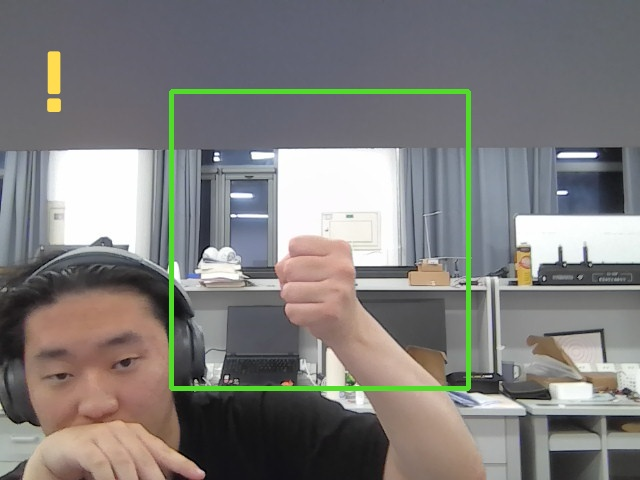
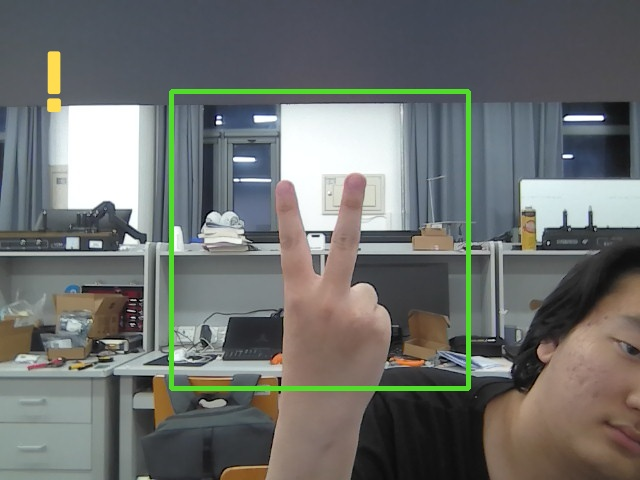
注释

diff --git a/其他大作业/软件实践/tf_rps_gesture_classifier.py b/其他大作业/软件实践/tf_rps_gesture_classifier.py
@@ -257,27 +257,23 @@ def hand_mask(roi, cv2):
     # 使用 YCrCb 肤色阈值提取手部候选区域，目的是减少背景对模型的干扰。
     # 对图像做高斯模糊，减少噪声。
     blurred = cv2.GaussianBlur(roi, (5, 5), 0)
-    # 转换图像颜色空间。
+    # 转换图像颜色空间。肤色在 YCrCb 里通常更容易分离
     ycrcb = cv2.cvtColor(blurred, cv2.COLOR_BGR2YCrCb)
-    # 按阈值生成二值掩码。
+    # 保留颜色值落在指定范围内的像素。
     ycrcb_mask = cv2.inRange(
-        # 继续填写上一行开始的多行参数或数据结构。
         ycrcb,
-        # 同时计算并保存 `np.array([35, 132, 78], dtype` 这些值。
         np.array([35, 132, 78], dtype=np.uint8),
-        # 同时计算并保存 `np.array([245, 180, 135], dtype` 这些值。
         np.array([245, 180, 135], dtype=np.uint8),
-    # 结束上面的多行结构。
     )
-    # 计算并保存 `kernel`，供后续逻辑使用。
+    #创建形态学操作用的卷积核
     kernel = np.ones((5, 5), np.uint8)
-    # 用形态学操作清理掩码噪声。
+    #做开运算，用于去掉小的白色噪点
     mask = cv2.morphologyEx(ycrcb_mask, cv2.MORPH_OPEN, kernel, iterations=1)
-    # 用形态学操作清理掩码噪声。
+    #做闭运算，填补白色区域里的小黑洞
     mask = cv2.morphologyEx(mask, cv2.MORPH_CLOSE, kernel, iterations=2)
-    # 对掩码做中值滤波，进一步平滑边缘。
+    #中值滤波
     mask = cv2.medianBlur(mask, 5)
-    # 返回 `mask`，把结果交给调用者。
+
     return mask
 
 
@@ -566,21 +562,22 @@ def split_image_paths(data_dir: Path, validation_split: float, seed: int):
     for label, name in enumerate(CLASSES):
         # 计算并保存 `files`，供后续逻辑使用。
         files = image_files(data_dir / name)
-        # 执行“把图片路径按训练集和验证集拆分”中的这一行操作。
+        # 把当前类别下的图片顺序随机打乱
         rng.shuffle(files)
         # 计算并保存 `val_count`，供后续逻辑使用。
         val_count = max(1, int(round(len(files) * validation_split)))
-        # 计算并保存 `val_files`，供后续逻辑使用。
+        # 把打乱后的图片列表切开：
+        #前 val_count 张作为验证集
+        #剩下的作为训练集
         val_files = files[:val_count]
-        # 计算并保存 `train_files`，供后续逻辑使用。
         train_files = files[val_count:]
-        # 执行“把图片路径按训练集和验证集拆分”中的这一行操作。
+        #把训练图片路径加入 train_paths，并为这些图片加入对应的数字标签。
         train_paths.extend(str(path) for path in train_files)
-        # 执行“把图片路径按训练集和验证集拆分”中的这一行操作。
+        
         train_labels.extend([label] * len(train_files))
-        # 执行“把图片路径按训练集和验证集拆分”中的这一行操作。
+        
         val_paths.extend(str(path) for path in val_files)
-        # 执行“把图片路径按训练集和验证集拆分”中的这一行操作。
+        
         val_labels.extend([label] * len(val_files))
     # 返回 `train_paths, train_labels, val_paths, val_labels`，把结果交给调用者。
     return train_paths, train_labels, val_paths, val_labels
@@ -724,76 +721,70 @@ def build_model(image_size: int, learning_rate: float):
 
 # 定义 plot_history 函数：保存训练过程中的准确率和损失曲线。
 def plot_history(history, out_path: Path):
-    # 保存训练曲线，答辩时可以展示准确率和损失如何变化。
     # 使用 matplotlib 绘制或保存训练图表。
+    #创建一张大小为 8 x 4 的图
     plt.figure(figsize=(8, 4))
-    # 使用 matplotlib 绘制或保存训练图表。
+    # 把整张图分成 1 行 2 列，当前操作第 1 个子图。
     plt.subplot(1, 2, 1)
-    # 使用 matplotlib 绘制或保存训练图表。
+    # 训练集准确率曲线
     plt.plot(history.history["accuracy"], label="train")
-    # 使用 matplotlib 绘制或保存训练图表。
+    # 验证集准确率曲线
     plt.plot(history.history["val_accuracy"], label="val")
-    # 使用 matplotlib 绘制或保存训练图表。
+    # 标题
     plt.title("Accuracy")
-    # 使用 matplotlib 绘制或保存训练图表。
+    # 横轴
     plt.xlabel("Epoch")
-    # 使用 matplotlib 绘制或保存训练图表。
+    # 图例
     plt.legend()
-    # 使用 matplotlib 绘制或保存训练图表。
+    # 2图
     plt.subplot(1, 2, 2)
-    # 使用 matplotlib 绘制或保存训练图表。
+    # 训练集损失曲线
     plt.plot(history.history["loss"], label="train")
-    # 使用 matplotlib 绘制或保存训练图表。
+    #验证集损失曲线
     plt.plot(history.history["val_loss"], label="val")
-    # 使用 matplotlib 绘制或保存训练图表。
     plt.title("Loss")
-    # 使用 matplotlib 绘制或保存训练图表。
     plt.xlabel("Epoch")
-    # 使用 matplotlib 绘制或保存训练图表。
     plt.legend()
-    # 使用 matplotlib 绘制或保存训练图表。
+    # 自动调整子图间距，避免标题、坐标轴、图例重叠
     plt.tight_layout()
-    # 使用 matplotlib 绘制或保存训练图表。
+    # 把图保存到 out_path，dpi=160 表示图片清晰度
     plt.savefig(out_path, dpi=160)
-    # 使用 matplotlib 绘制或保存训练图表。
+    # 关闭图像
     plt.close()
 
 
 # 定义 save_keras_model 函数：保存 Keras 模型，同时兼容不同版本接口。
 def save_keras_model(model, target_path: Path):
     # 先保存到临时目录再复制到目标路径，减少 Windows 中文路径导致的保存问题。
-    # 计算并保存 `target_path`，供后续逻辑使用。
+    #确保 target_path 是 Path 类型
     target_path = Path(target_path)
     # 创建目录；如果已经存在就直接复用。
     target_path.parent.mkdir(parents=True, exist_ok=True)
-    # 进入上下文管理代码块，结束时会自动清理资源。
+    #创建一个临时目录。with 结束后，这个临时目录会自动删除，解决中文不友好
     with tempfile.TemporaryDirectory(prefix="rps_keras_save_") as tmp_dir:
-        # 计算并保存 `tmp_path`，供后续逻辑使用。
         tmp_path = Path(tmp_dir) / target_path.name
-        # 把训练好的模型保存到磁盘。
+        # 把模型保存到临时路径。
         model.save(str(tmp_path))
-        # 执行“保存 Keras 模型，同时兼容不同版本接口”中的这一行操作。
+        #把临时保存好的模型文件复制到最终目标路径。
         shutil.copy2(tmp_path, target_path)
 
 
 # 定义 compute_confusion_matrix 函数：计算验证集上的混淆矩阵。
 def compute_confusion_matrix(model, dataset):
     # 混淆矩阵用于观察每个真实类别被预测成了什么类别。
-    # 计算并保存 `matrix`，供后续逻辑使用。
+    #创建一个全 0 矩阵
     matrix = np.zeros((len(CLASSES), len(CLASSES)), dtype=int)
-    # 遍历 `images, labels`，逐项执行下面的逻辑。
+
     for images, labels in dataset:
         # 让模型输出当前图片属于各类别的概率。
         predictions = model.predict(images, verbose=0)
-        # 计算并保存 `true_ids`，供后续逻辑使用。
+        #得到真实类别编号
         true_ids = np.argmax(labels.numpy(), axis=1)
-        # 计算并保存 `pred_ids`，供后续逻辑使用。
+        # 模型预测概率中取最大概率对应的类别编号
         pred_ids = np.argmax(predictions, axis=1)
-        # 遍历 `true_id, pred_id`，逐项执行下面的逻辑。
+        #计算矩阵
         for true_id, pred_id in zip(true_ids, pred_ids):
-            # 同时计算并保存 `matrix[int(true_id), int(pred_id)] +` 这些值。
             matrix[int(true_id), int(pred_id)] += 1
-    # 返回 `matrix`，把结果交给调用者。
     return matrix
 
 
@@ -802,65 +793,56 @@ def train_model(args):
     # 完整训练流程：加载数据、构建模型、训练、评估并保存模型和报告。
     # 执行“训练模型并保存模型、标签和报告”中的这一行操作。
     require_tf()
-    # 执行“训练模型并保存模型、标签和报告”中的这一行操作。
+    #自带的随机
     random.seed(args.seed)
-    # 执行“训练模型并保存模型、标签和报告”中的这一行操作。
+    # numpy随机
     np.random.seed(args.seed)
-    # 执行“训练模型并保存模型、标签和报告”中的这一行操作。
+    # tensorflow随机
     tf.random.set_seed(args.seed)
-    # 计算并保存 `data_dir`，供后续逻辑使用。
     data_dir = Path(args.data_dir)
-    # 计算并保存 `output_dir`，供后续逻辑使用。
     output_dir = Path(args.output_dir)
     # 创建目录；如果已经存在就直接复用。
     output_dir.mkdir(parents=True, exist_ok=True)
-    # 计算并保存 `counts`，供后续逻辑使用。
     counts = class_counts(data_dir)
-    # 判断条件 `min(counts.values(), default=0) < 10` 是否成立。
     if min(counts.values(), default=0) < 10:
-        # 主动抛出错误，让调用者知道程序无法继续。
         raise SystemExit(
-            # 执行“训练模型并保存模型、标签和报告”中的这一行操作。
             f"Not enough images in {data_dir}. Collect at least 30 per class first. Counts: {counts}"
-        # 结束上面的多行结构。
         )
-
-    # 同时计算并保存 `train_ds, val_ds, train_counts, val_counts` 这些值。
+    # 创建训练集和验证集
     train_ds, val_ds, train_counts, val_counts = make_datasets(
-        # 执行“训练模型并保存模型、标签和报告”中的这一行操作。
-        data_dir, args.image_size, args.batch_size, args.seed, args.validation_split, args.hand_preprocess
-    # 结束上面的多行结构。
+        data_dir, args.image_size, 
+        args.batch_size, args.seed, 
+        args.validation_split, 
+        args.hand_preprocess
     )
-    # 计算并保存 `model`，供后续逻辑使用。
+    #构建 CNN 模型
     model = build_model(args.image_size, args.learning_rate)
-    # 计算并保存 `callbacks`，供后续逻辑使用。
+  
     callbacks = [
         # 验证准确率长时间不提升时提前停止，避免过拟合。
-        # 调用 Keras 接口搭建、训练或加载模型。
         tf.keras.callbacks.EarlyStopping(monitor="val_accuracy", mode="max", patience=8, restore_best_weights=True),
         # 验证损失不下降时降低学习率，让后期训练更稳定。
-        # 调用 Keras 接口搭建、训练或加载模型。
         tf.keras.callbacks.ReduceLROnPlateau(monitor="val_loss", factor=0.5, patience=4),
-    # 结束上面的多行结构。
+
     ]
     # 开始训练神经网络模型。
     history = model.fit(train_ds, validation_data=val_ds, epochs=args.epochs, callbacks=callbacks)
     # 在验证集上评估模型效果。
     loss, acc = model.evaluate(val_ds, verbose=0)
-    # 计算并保存 `confusion`，供后续逻辑使用。
+    #计算混淆矩阵
     confusion = compute_confusion_matrix(model, val_ds)
-    # 执行“训练模型并保存模型、标签和报告”中的这一行操作。
+    # 保存模型
     save_keras_model(model, output_dir / "model.keras")
-    # 执行“训练模型并保存模型、标签和报告”中的这一行操作。
+    # 复制一份最佳模型
     shutil.copy2(output_dir / "model.keras", output_dir / "best_model.keras")
-    # 把文本内容写入文件。
+    # 保存标签
     (output_dir / "labels.txt").write_text("\n".join(CLASSES), encoding="utf-8")
-    # 执行“训练模型并保存模型、标签和报告”中的这一行操作。
+    # 画训练曲线
     plot_history(history, output_dir / "training_curve.png")
 
-    # 计算并保存 `report`，供后续逻辑使用。
+
     report = {
-        # 训练报告记录数据量、准确率、混淆矩阵和是否使用预训练模型，方便答辩说明。
+        
         # 配置字典中 `time` 对应的显示或规则值。
         "time": datetime.now().isoformat(timespec="seconds"),
         # 配置字典中 `data_dir` 对应的显示或规则值。
@@ -902,13 +884,9 @@ def train_model(args):
 # 定义 load_labels 函数：读取训练时保存的类别标签。
 def load_labels(output_dir: Path):
     # 读取训练时保存的类别标签；如果文件不存在，则使用默认类别顺序。
-    # 计算并保存 `label_file`，供后续逻辑使用。
     label_file = output_dir / "labels.txt"
-    # 判断条件 `label_file.exists()` 是否成立。
     if label_file.exists():
-        # 返回 `[line.strip() for line in label_file.read_text(encoding="utf-8").splitlines() if line.strip()]`，把结果交给调用者。
         return [line.strip() for line in label_file.read_text(encoding="utf-8").splitlines() if line.strip()]
-    # 返回 `CLASSES`，把结果交给调用者。
     return CLASSES
 
 
@@ -1758,7 +1736,6 @@ def parse_args():
     parser.add_argument("--model", default="")
     # 解析命令行参数并返回参数对象。
     return parser.parse_args()
-
 
 # 定义 main 函数：根据命令行模式调用对应功能。
 def main():
